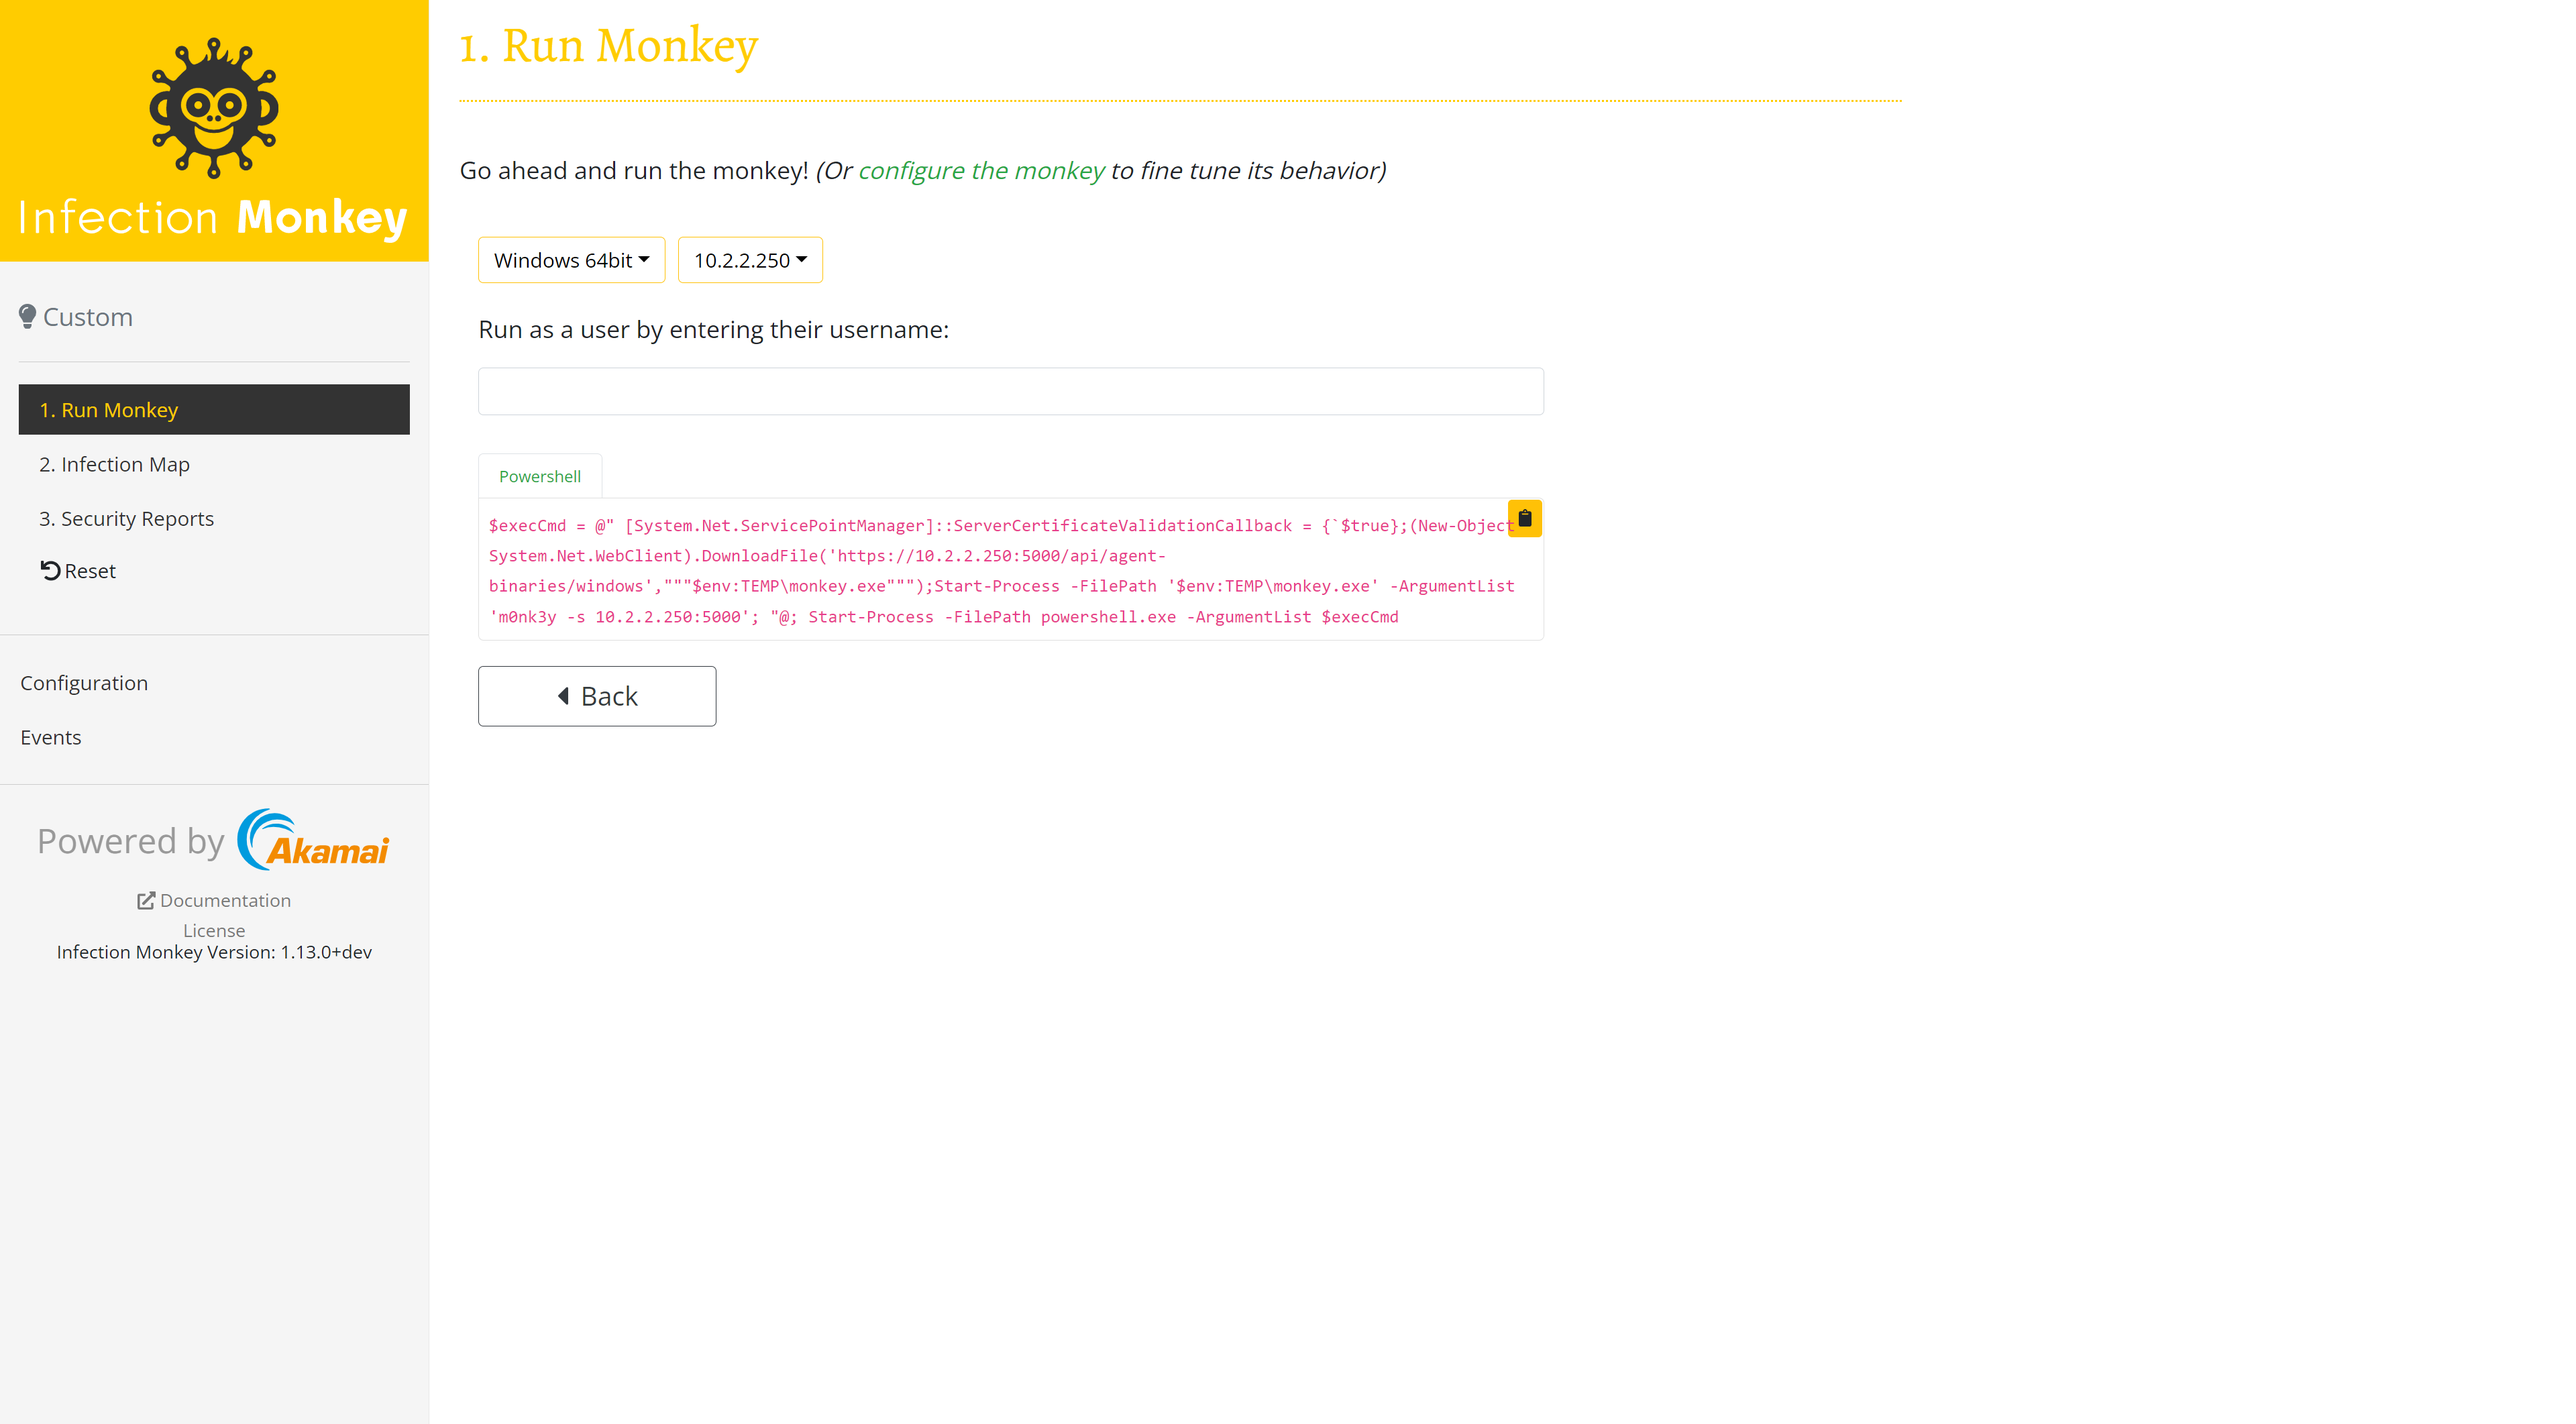
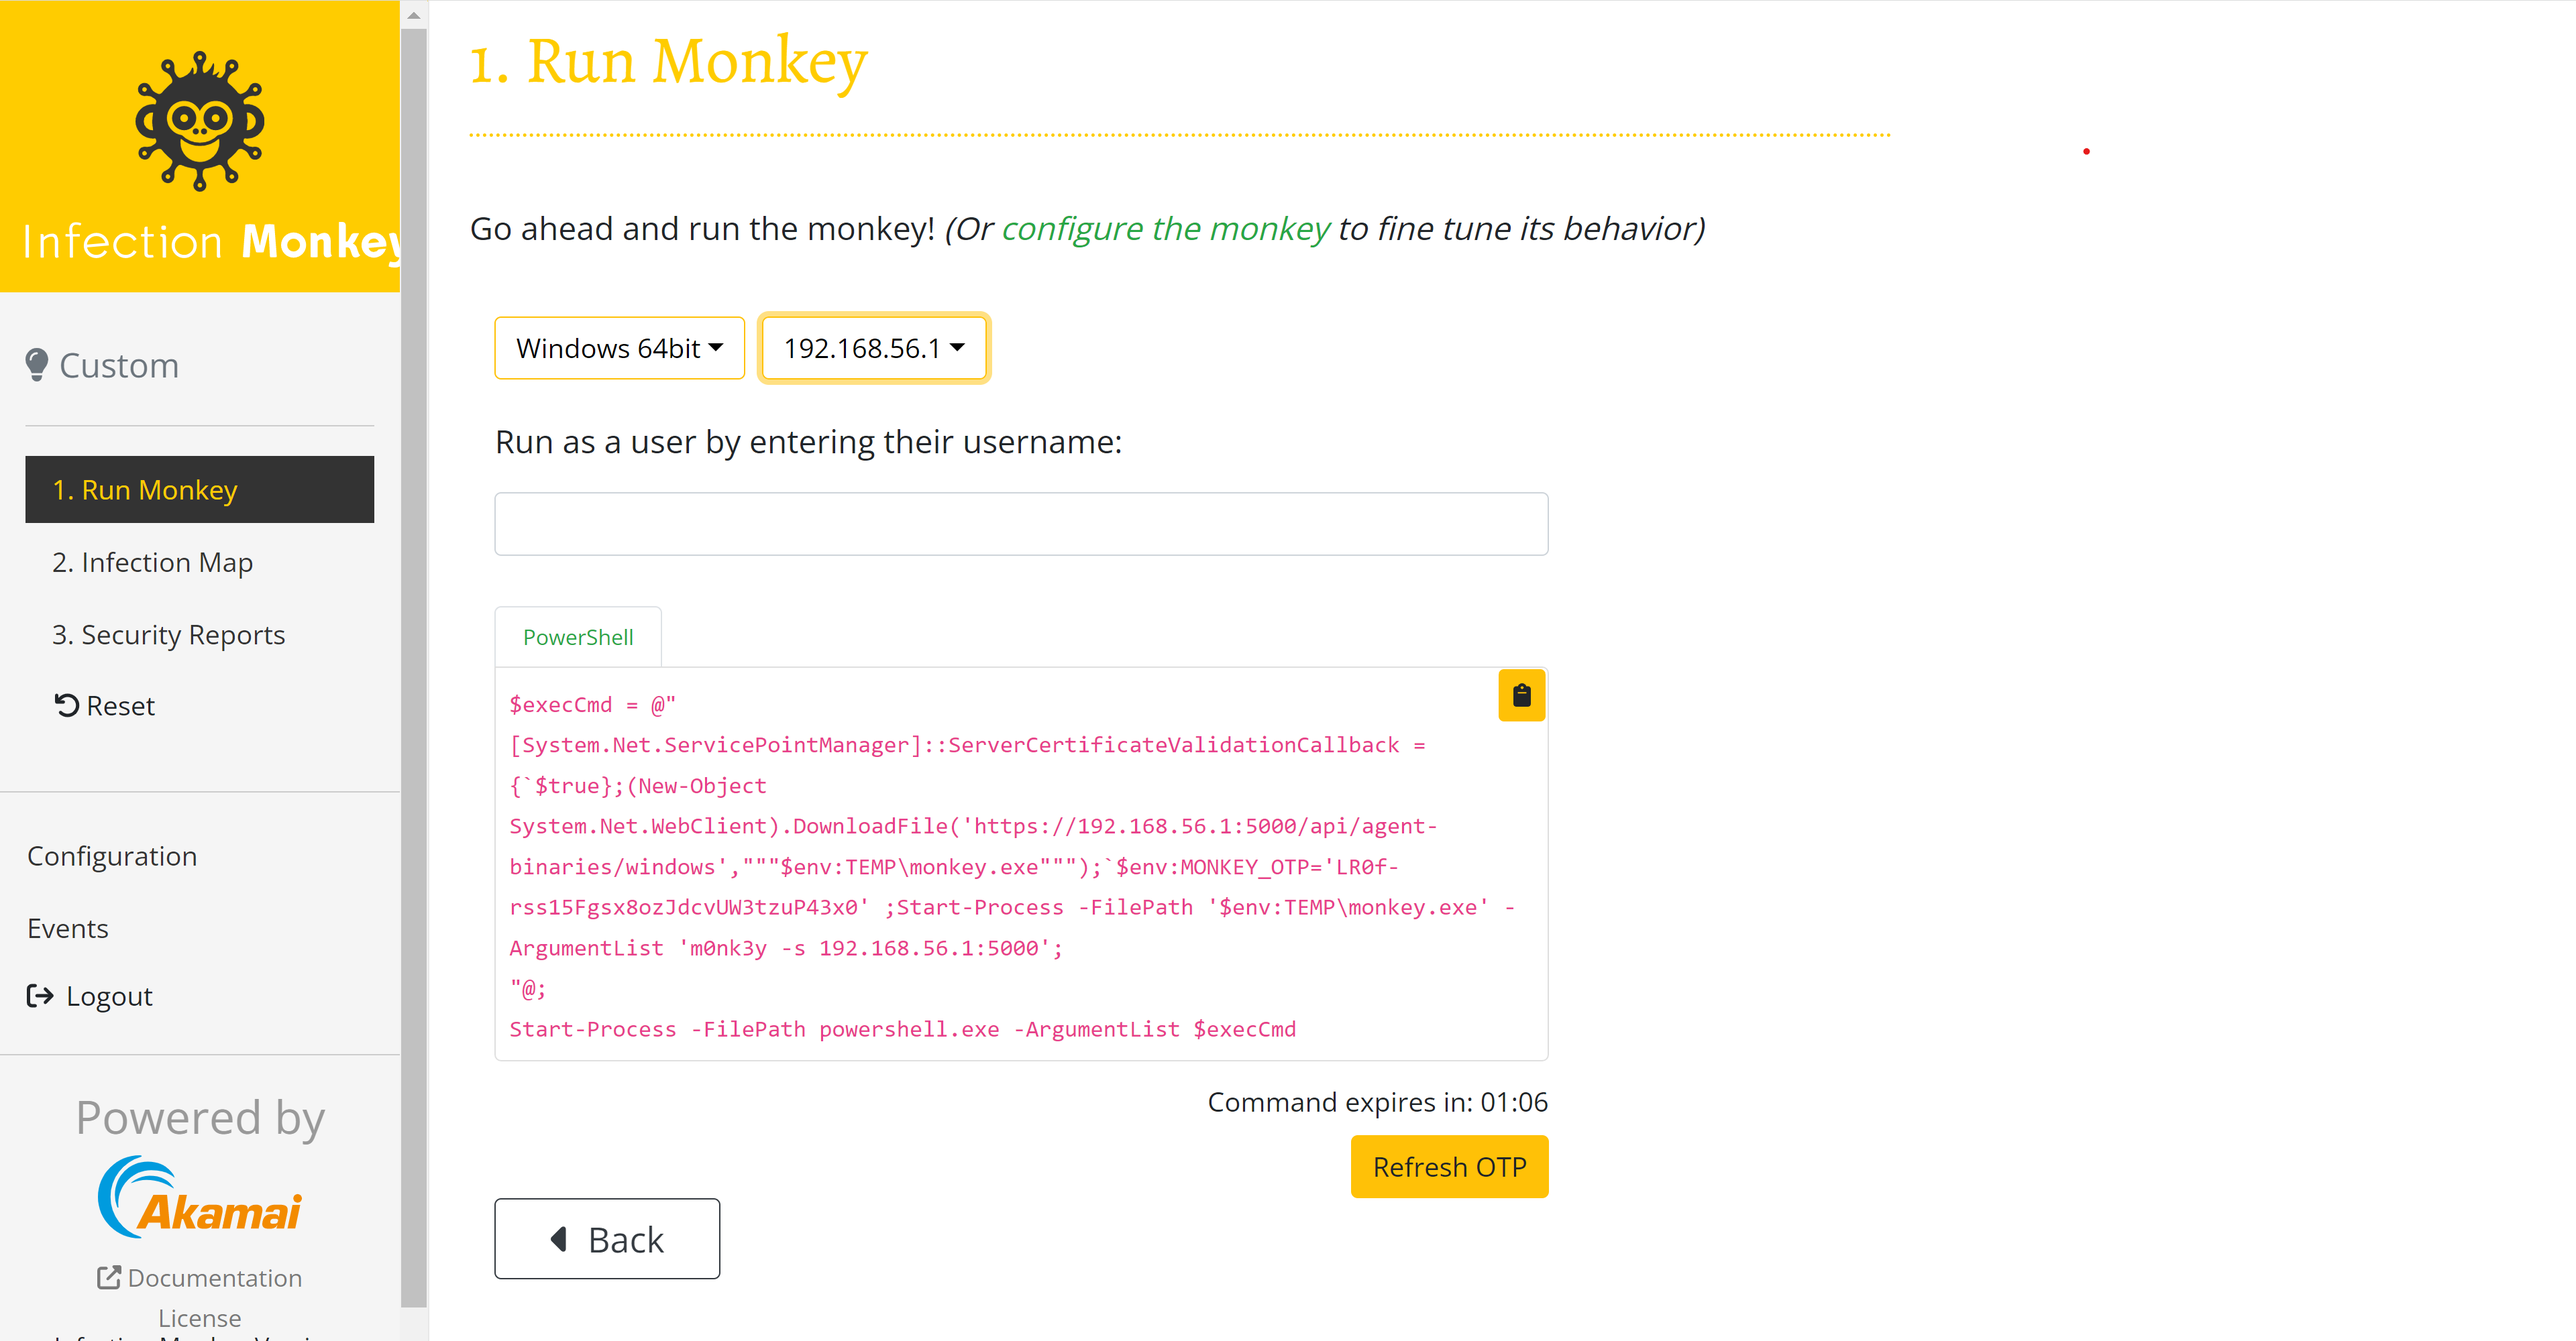
Docs: Update running manually documentation with information about OTP

diff --git a/docs/content/usage/running-manually.md b/docs/content/usage/running-manually.md
@@ -13,6 +13,13 @@ tags: ["usage"]
 A command to run the Agent manually can be generated by the Island Server UI by
 going to the "Run Monkey" -> "Manual" page.
 
+Any Agent, when run, needs to authenticate with the Island using a one-time
+password (OTP) whose validity is 2 minutes. The commands on the
+"Run Monkey" -> "Manual" page are updated with a valid OTP each time a command is
+copied or the OTP expires.
+
+![Manual run command](/images/island/run_monkey_page/run_monkey_on_machine.png "Manual run command")
+
 ### Downloading the Agent manually
 
 Agent binaries can be downloaded by sending a `GET` request to
